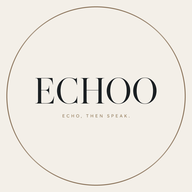
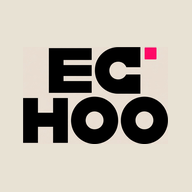
Restyle ECHOO with geometric type, a stacked mark, and an olive-pink-orange-beige-gray palette.
Display type is Archivo Black. The logo drops the circular seal for a MORPH/MOOD-style wordmark (echo rings on the O) and an EC/HOO stack. Primary is olive, accent is fluorescent pink, with orange, beige, and gray.

diff --git a/frontend/src/index.css b/frontend/src/index.css
@@ -1,16 +1,20 @@
 @import "tailwindcss";
 
 :root {
-  --bg: #ebe6df;
-  --panel: #f7f4ef;
-  --line: #c9c2b8;
-  --cyan: #5f6f62;
-  --magenta: #8e6f68;
-  --amber: #8a735a;
-  --ink: #2a2826;
-  --mute: #5a554e;
-  --paper: #f3efe8;
-  --radius: 14px;
+  --bg: #e8e2d4;
+  --panel: #f4eee4;
+  --line: #b4b0a6;
+  --olive: #556b2f;
+  --pink: #ff2d9b;
+  --orange: #ff6a1a;
+  --cyan: #556b2f;
+  --magenta: #ff2d9b;
+  --amber: #ff6a1a;
+  --ink: #141413;
+  --mute: #6e6c67;
+  --gray: #8c8a84;
+  --paper: #f7f3ea;
+  --radius: 10px;
 }
 
 * { box-sizing: border-box; }
@@ -24,20 +28,21 @@ html, body, #root {
 body {
   margin: 0;
   background:
-    linear-gradient(180deg, #f3efe8 0%, #ebe6df 40%, #e4ddd4 100%);
+    linear-gradient(180deg, #f4eee4 0%, #e8e2d4 42%, #d9d3c6 100%);
   color: var(--ink);
-  font-family: "Source Sans 3", "Noto Sans TC", "Noto Sans JP", "Noto Sans KR", sans-serif;
+  font-family: Outfit, "Noto Sans TC", "Noto Sans JP", "Noto Sans KR", sans-serif;
   font-size: 16px;
   line-height: 1.5;
   font-weight: 500;
   -webkit-font-smoothing: antialiased;
 }
 h1, h2, h3, .display {
-  font-family: "Source Serif 4", "Noto Serif TC", "Noto Sans TC", serif;
-  letter-spacing: 0.01em;
-  font-weight: 650;
+  font-family: "Archivo Black", Outfit, "Noto Sans TC", sans-serif;
+  letter-spacing: -0.04em;
+  font-weight: 400;
   color: var(--ink);
-  line-height: 1.25;
+  line-height: 0.95;
+  text-transform: uppercase;
 }
 button, input, select, textarea {
   font: inherit;
@@ -51,7 +56,7 @@ input, select, textarea {
 .panel {
   background: var(--panel);
   border: 1px solid var(--line);
-  box-shadow: 0 8px 22px rgba(70, 62, 54, 0.07);
+  box-shadow: 0 8px 0 rgba(20, 20, 19, 0.04);
   border-radius: var(--radius);
 }
 .neon {
@@ -59,7 +64,7 @@ input, select, textarea {
   text-shadow: none;
   font-weight: 700;
 }
-.mag { color: #7a403c; font-weight: 700; }
+.mag { color: var(--orange); font-weight: 700; }
 .lock { opacity: 0.45; }
 
 .app-shell {
@@ -120,12 +125,14 @@ input, select, textarea {
   justify-content: center;
   min-height: 44px;
   padding: 0 16px;
-  border-radius: 12px;
+  border-radius: 10px;
   border: 1px solid transparent;
-  font-weight: 700;
-  letter-spacing: 0.02em;
+  font-weight: 800;
+  letter-spacing: 0.04em;
   cursor: pointer;
   white-space: nowrap;
+  text-transform: uppercase;
+  font-size: 0.82rem;
 }
 .btn:disabled { opacity: 0.5; cursor: not-allowed; }
 .btn-wrap {
@@ -144,7 +151,7 @@ input, select, textarea {
   color: #fff;
 }
 .btn-accent {
-  background: var(--magenta);
+  background: var(--pink);
   color: #fff;
 }
 .btn-ghost {
@@ -154,8 +161,8 @@ input, select, textarea {
 }
 .btn-line {
   background: transparent;
-  border-color: var(--cyan);
-  color: var(--cyan);
+  border-color: var(--orange);
+  color: var(--orange);
 }
 .nav-btn {
   min-height: 40px;
@@ -163,8 +170,10 @@ input, select, textarea {
   border-radius: 10px;
   border: 1px solid var(--line);
   background: var(--paper);
-  font-size: 13px;
-  font-weight: 650;
+  font-size: 12px;
+  font-weight: 800;
+  letter-spacing: 0.04em;
+  text-transform: uppercase;
   text-align: center;
   white-space: nowrap;
   overflow: hidden;
@@ -198,7 +207,7 @@ input, select, textarea {
 .notice {
   font-size: 0.85rem;
   font-weight: 700;
-  color: #7a403c;
+  color: var(--orange);
   overflow-wrap: anywhere;
   word-break: break-word;
 }
@@ -258,8 +267,8 @@ input, select, textarea {
   animation: micpulse 1.2s ease-in-out infinite;
 }
 @keyframes micpulse {
-  0%, 100% { box-shadow: 0 0 0 0 rgba(142, 111, 104, 0.45); }
-  50% { box-shadow: 0 0 0 6px rgba(142, 111, 104, 0); }
+  0%, 100% { box-shadow: 0 0 0 0 rgba(255, 45, 155, 0.45); }
+  50% { box-shadow: 0 0 0 6px rgba(255, 45, 155, 0); }
 }
 
 .empty-pane {
@@ -275,24 +284,29 @@ input, select, textarea {
 
 .brand-seal {
   display: block;
-  width: 9rem;
-  height: 9rem;
-  border-radius: 50%;
+  width: min(18rem, 100%);
+  height: auto;
+  aspect-ratio: 1;
+  border-radius: 0;
   object-fit: contain;
-  box-shadow: 0 10px 24px rgba(70, 62, 54, 0.12);
+  box-shadow: none;
+  background: transparent;
 }
 .brand-seal-sm {
-  width: 2.75rem;
-  height: 2.75rem;
-  box-shadow: none;
+  width: 3rem;
+  height: 3rem;
+  aspect-ratio: 1;
+  border-radius: 8px;
+  background: #e8e2d4;
 }
 .slogan {
-  margin-top: 0.7rem;
+  margin-top: 0.35rem;
   text-align: center;
-  font-size: 0.72rem;
+  font-family: Outfit, "Noto Sans TC", sans-serif;
+  font-size: 0.68rem;
   font-weight: 700;
-  letter-spacing: 0.16em;
-  color: var(--amber);
+  letter-spacing: 0.22em;
+  color: var(--orange);
   text-transform: uppercase;
 }
 .slogan-inline {
@@ -310,9 +324,11 @@ input, select, textarea {
   overflow-wrap: anywhere;
 }
 .beat-hero .beat-line {
-  font-family: "Source Serif 4", "Noto Serif TC", serif;
+  font-family: "Archivo Black", Outfit, "Noto Sans TC", sans-serif;
   font-size: 2.1rem;
-  line-height: 1.45;
+  line-height: 1.15;
+  letter-spacing: -0.04em;
+  text-transform: uppercase;
 }
 .beat {
   display: inline-block;
@@ -321,7 +337,7 @@ input, select, textarea {
   border: none;
   border-radius: 0;
   background: transparent;
-  color: #9a948c;
+  color: var(--gray);
   cursor: pointer;
   font: inherit;
   line-height: 1.35;
@@ -333,12 +349,12 @@ input, select, textarea {
   background: transparent;
 }
 .beat.on {
-  color: #7a403c;
+  color: var(--pink);
   background: transparent;
   transform: translateY(-3px);
   text-decoration: underline;
-  text-decoration-color: #c45c55;
-  text-decoration-thickness: 2px;
+  text-decoration-color: var(--pink);
+  text-decoration-thickness: 3px;
   text-underline-offset: 3px;
   animation: beat-bounce 0.38s ease;
   box-shadow: none;
@@ -349,8 +365,8 @@ input, select, textarea {
   font-size: 0.92rem;
   line-height: 1.55;
 }
-.zh-lit { color: #7a403c; font-weight: 750; }
-.zh-rest { color: #c9c2b8; font-weight: 500; }
+.zh-lit { color: var(--olive); font-weight: 750; }
+.zh-rest { color: var(--line); font-weight: 500; }
 @keyframes beat-bounce {
   0% { transform: translateY(2px) scale(1); }
   45% { transform: translateY(-6px) scale(1.12); }
@@ -428,9 +444,11 @@ input, select, textarea {
   right: 56px;
   bottom: 14px;
   margin: 0;
-  font-family: "Source Serif 4", "Noto Serif TC", serif;
+  font-family: "Archivo Black", Outfit, "Noto Sans TC", sans-serif;
   font-size: 1.35rem;
-  font-weight: 700;
+  font-weight: 400;
+  letter-spacing: -0.03em;
+  text-transform: uppercase;
   letter-spacing: 0.04em;
   text-align: left;
   text-shadow: 0 2px 12px rgba(0,0,0,0.55);
@@ -669,7 +687,7 @@ input, select, textarea {
 }
 .story-title {
   margin: 0 0 2px;
-  font-size: 1.2rem;
+  font-size: 1.35rem;
 }
 .story-title-zh {
   margin: 0 0 12px;
@@ -689,18 +707,20 @@ input, select, textarea {
   background: transparent;
 }
 .beat-block.is-story .beat-line {
-  font-family: "Source Serif 4", "Noto Serif TC", serif;
+  font-family: Outfit, "Noto Sans TC", sans-serif;
   font-size: 1.12rem;
   line-height: 1.75;
+  letter-spacing: 0;
+  text-transform: none;
 }
 .beat-block.is-story .beat {
   color: #4a4640;
 }
 .beat-block.is-story .beat.done { color: #2a2826; }
 .beat-block.is-story .beat.on {
-  background: #f3e07a;
-  color: #1c1a18;
-  border-radius: 4px;
+  background: var(--orange);
+  color: #141413;
+  border-radius: 2px;
   padding: 0 3px;
   margin: 0 -3px;
   transform: none;
@@ -741,7 +761,7 @@ input, select, textarea {
   background: var(--paper);
 }
 .fix-orig { text-decoration: line-through; color: var(--mute); }
-.fix-new { color: #7a403c; font-weight: 700; }
+.fix-new { color: var(--olive); font-weight: 700; }
 .fix-why { margin: 4px 0 0; font-size: 0.85rem; color: var(--mute); }
 .praise { text-align: left; font-size: 0.9rem; color: var(--cyan); margin-bottom: 8px; font-weight: 700; }
 .rate-row { display: flex; gap: 8px; margin-top: 8px; flex-wrap: wrap; }

diff --git a/frontend/index.html b/frontend/index.html
@@ -3,14 +3,14 @@
   <head>
     <meta charset="UTF-8" />
     <meta name="viewport" content="width=device-width, initial-scale=1.0, viewport-fit=cover" />
-    <meta name="theme-color" content="#ebe6df" />
+    <meta name="theme-color" content="#e8e2d4" />
     <meta name="description" content="ECHOO — ECHO, THEN SPEAK. Language tutor with native gloss and karaoke reading." />
     <link rel="manifest" href="/manifest.webmanifest" />
     <link rel="apple-touch-icon" href="/apple-touch-icon.png" />
     <link rel="icon" type="image/png" href="/icon-192.png" />
     <link rel="preconnect" href="https://fonts.googleapis.com" />
     <link rel="preconnect" href="https://fonts.gstatic.com" crossorigin />
-    <link href="https://fonts.googleapis.com/css2?family=Source+Sans+3:wght@500;600;700&family=Source+Serif+4:opsz,wght@8..60,600;8..60,700&family=Noto+Sans+TC:wght@500;700&family=Noto+Sans+JP:wght@500;700&family=Noto+Sans+KR:wght@500;700&family=Noto+Serif+TC:wght@600;700&display=swap" rel="stylesheet" />
+    <link href="https://fonts.googleapis.com/css2?family=Archivo+Black&family=Outfit:wght@500;600;700;800&family=Noto+Sans+TC:wght@500;700&family=Noto+Sans+JP:wght@500;700&family=Noto+Sans+KR:wght@500;700&display=swap" rel="stylesheet" />
     <title>ECHOO</title>
   </head>
   <body>

diff --git a/frontend/src/App.jsx b/frontend/src/App.jsx
@@ -560,7 +560,7 @@ export default function App() {
         <form onSubmit={submitAuth} className="panel w-full max-w-md p-5 flex flex-col min-h-0 my-auto">
           <img src="/logo.png" alt="ECHOO" className="brand-seal mx-auto" />
           <p className="slogan">{tr("tag")}</p>
-          <h1 className="text-2xl mt-2 text-center">{authMode === "login" ? tr("login") : tr("register")}</h1>
+          <h1 className="text-2xl mt-3 text-center">{authMode === "login" ? tr("login") : tr("register")}</h1>
           <label className="block mt-4 text-sm text-[var(--mute)]">{tr("username")}
             <input value={handle} onChange={(e) => setHandle(e.target.value)} className="field mt-1" />
           </label>
@@ -609,7 +609,7 @@ export default function App() {
   return (
     <div className="app-shell">
       <header className="panel app-header">
-        <img src="/logo.png" alt="ECHOO" className="brand-seal brand-seal-sm shrink-0" />
+        <img src="/mark.png" alt="" className="brand-seal brand-seal-sm shrink-0" />
         <div className="min-w-0 flex-1">
           <div className="display text-lg leading-none">ECHOO</div>
           <div className="slogan slogan-inline">{tr("tagShort")}</div>

diff --git a/frontend/public/sw.js b/frontend/public/sw.js
@@ -1,9 +1,9 @@
-const CACHE = "echoo-v5";
+const CACHE = "echoo-v6";
 
 self.addEventListener("install", (event) => {
   event.waitUntil(
     caches.open(CACHE).then((cache) =>
-      cache.addAll(["/logo.png", "/icon-192.png", "/icon-512.png", "/manifest.webmanifest"]),
+      cache.addAll(["/logo.png", "/mark.png", "/icon-192.png", "/icon-512.png", "/manifest.webmanifest"]),
     ).then(() => self.skipWaiting()),
   );
 });
